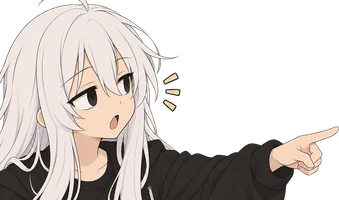
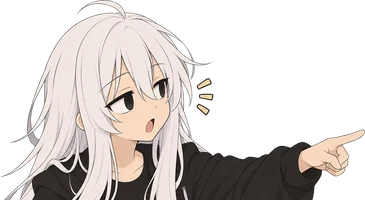
Секстези у лого: волосы слева больше не обрезаны
Claude-Session: https://claude.ai/code/session_018VjNUAijUUouHE73EmcBz3

diff --git a/index.html b/index.html
@@ -33,7 +33,7 @@
 <style>.list{display:grid;grid-template-columns:repeat(auto-fill,minmax(320px,1fr));gap:16px;margin-top:8px}.gcard{display:block;text-decoration:none;color:var(--fg2);background:var(--s1);border:1px solid var(--line);border-radius:16px;overflow:hidden}.gcard:hover{border-color:var(--accent)}.gimg{position:relative}.gcard img{display:block;width:100%;aspect-ratio:16/9;height:auto;object-fit:cover;object-position:center;background:#000}.ver{position:absolute;left:10px;bottom:10px;font-size:14px;font-weight:700;color:var(--fg);background:rgba(11,11,16,.82);border:1px solid var(--line2);padding:4px 10px;border-radius:999px;backdrop-filter:blur(4px)}.gbody{padding:16px 18px}.tags{display:flex;flex-wrap:wrap;gap:6px}.tags .chip{font-size:14px;padding:4px 10px}.gcard h2{color:var(--fg);font-size:22px;line-height:1.25;margin:10px 0 6px}.gcard p{margin:0;font-size:16px;color:var(--muted)}</style>
 </head>
 <body>
-<header class="top"><div class="wrap"><a class="brand" aria-label="Nextezy, на главную" href="./"><img class="brand-pic" src="/assets/sextezy-point.webp" alt="" width="339" height="200"><span class="logo">Nextezy</span></a><nav class="soc" aria-label="Nextezy в соцсетях">
+<header class="top"><div class="wrap"><a class="brand" aria-label="Nextezy, на главную" href="./"><img class="brand-pic" src="/assets/sextezy-point.webp?v=2" alt="" width="365" height="200"><span class="logo">Nextezy</span></a><nav class="soc" aria-label="Nextezy в соцсетях">
     <a href="https://www.youtube.com/@Nextezy/videos" target="_blank" rel="noopener" title="YouTube" aria-label="YouTube"><img src="assets/icon-youtube.png" alt="" width="30" height="21"></a>
     <a href="https://t.me/nextezy1" target="_blank" rel="noopener" title="Telegram" aria-label="Telegram"><img src="assets/icon-telegram.png" alt="" width="28" height="28"></a>
     <a href="https://www.twitch.tv/nextezy1" target="_blank" rel="noopener" title="Twitch" aria-label="Twitch"><img src="assets/icon-twitch.png" alt="" width="28" height="28"></a>

diff --git a/404.html b/404.html
@@ -35,7 +35,7 @@ main .wrap.nf{display:grid;grid-template-columns:minmax(0,1fr) minmax(0,420px);g
 </style>
 </head>
 <body>
-<header class="top"><div class="wrap"><a class="brand" aria-label="Nextezy, на главную" href="/"><img class="brand-pic" src="/assets/sextezy-point.webp" alt="" width="339" height="200"><span class="logo">Nextezy</span></a><nav class="soc" aria-label="Nextezy в соцсетях">
+<header class="top"><div class="wrap"><a class="brand" aria-label="Nextezy, на главную" href="/"><img class="brand-pic" src="/assets/sextezy-point.webp?v=2" alt="" width="365" height="200"><span class="logo">Nextezy</span></a><nav class="soc" aria-label="Nextezy в соцсетях">
     <a href="https://www.youtube.com/@Nextezy/videos" target="_blank" rel="noopener" title="YouTube" aria-label="YouTube"><img src="/assets/icon-youtube.png" alt="" width="30" height="21"></a>
     <a href="https://t.me/nextezy1" target="_blank" rel="noopener" title="Telegram" aria-label="Telegram"><img src="/assets/icon-telegram.png" alt="" width="28" height="28"></a>
     <a href="https://www.twitch.tv/nextezy1" target="_blank" rel="noopener" title="Twitch" aria-label="Twitch"><img src="/assets/icon-twitch.png" alt="" width="28" height="28"></a>

diff --git a/privacy/index.html b/privacy/index.html
@@ -32,7 +32,7 @@
 <link rel="stylesheet" href="../assets/style.css?v=20261102-24">
 </head>
 <body>
-<header class="top"><div class="wrap"><a class="brand" aria-label="Nextezy, на главную" href="../"><img class="brand-pic" src="/assets/sextezy-point.webp" alt="" width="339" height="200"><span class="logo">Nextezy</span></a><nav class="soc" aria-label="Nextezy в соцсетях">
+<header class="top"><div class="wrap"><a class="brand" aria-label="Nextezy, на главную" href="../"><img class="brand-pic" src="/assets/sextezy-point.webp?v=2" alt="" width="365" height="200"><span class="logo">Nextezy</span></a><nav class="soc" aria-label="Nextezy в соцсетях">
     <a href="https://www.youtube.com/@Nextezy/videos" target="_blank" rel="noopener" title="YouTube" aria-label="YouTube"><img src="../assets/icon-youtube.png" alt="" width="30" height="21"></a>
     <a href="https://t.me/nextezy1" target="_blank" rel="noopener" title="Telegram" aria-label="Telegram"><img src="../assets/icon-telegram.png" alt="" width="28" height="28"></a>
     <a href="https://www.twitch.tv/nextezy1" target="_blank" rel="noopener" title="Twitch" aria-label="Twitch"><img src="../assets/icon-twitch.png" alt="" width="28" height="28"></a>

diff --git a/pconc/index.html b/pconc/index.html
@@ -34,7 +34,7 @@
 </head>
 <body>
 <header class="top"><div class="wrap">
-  <a class="brand" aria-label="Nextezy, на главную" href="../"><img class="brand-pic" src="/assets/sextezy-point.webp" alt="" width="339" height="200"><span class="logo">Nextezy</span></a>
+  <a class="brand" aria-label="Nextezy, на главную" href="../"><img class="brand-pic" src="/assets/sextezy-point.webp?v=2" alt="" width="365" height="200"><span class="logo">Nextezy</span></a>
   <nav class="soc" aria-label="Nextezy в соцсетях">
     <a href="https://www.youtube.com/@Nextezy/videos" target="_blank" rel="noopener" title="YouTube" aria-label="YouTube"><img src="../assets/icon-youtube.png" alt="" width="30" height="21"></a>
     <a href="https://t.me/nextezy1" target="_blank" rel="noopener" title="Telegram" aria-label="Telegram"><img src="../assets/icon-telegram.png" alt="" width="28" height="28"></a>

diff --git a/soulwrest/index.html b/soulwrest/index.html
@@ -34,7 +34,7 @@
 </head>
 <body>
 <header class="top"><div class="wrap">
-  <a class="brand" aria-label="Nextezy, на главную" href="../"><img class="brand-pic" src="/assets/sextezy-point.webp" alt="" width="339" height="200"><span class="logo">Nextezy</span></a>
+  <a class="brand" aria-label="Nextezy, на главную" href="../"><img class="brand-pic" src="/assets/sextezy-point.webp?v=2" alt="" width="365" height="200"><span class="logo">Nextezy</span></a>
   <nav class="soc" aria-label="Nextezy в соцсетях">
     <a href="https://www.youtube.com/@Nextezy/videos" target="_blank" rel="noopener" title="YouTube" aria-label="YouTube"><img src="../assets/icon-youtube.png" alt="" width="30" height="21"></a>
     <a href="https://t.me/nextezy1" target="_blank" rel="noopener" title="Telegram" aria-label="Telegram"><img src="../assets/icon-telegram.png" alt="" width="28" height="28"></a>
